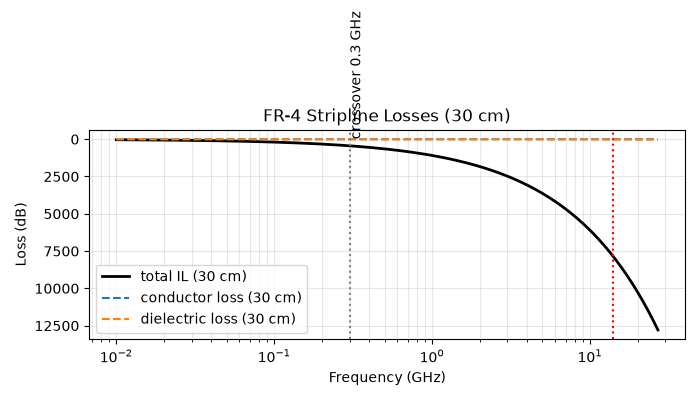
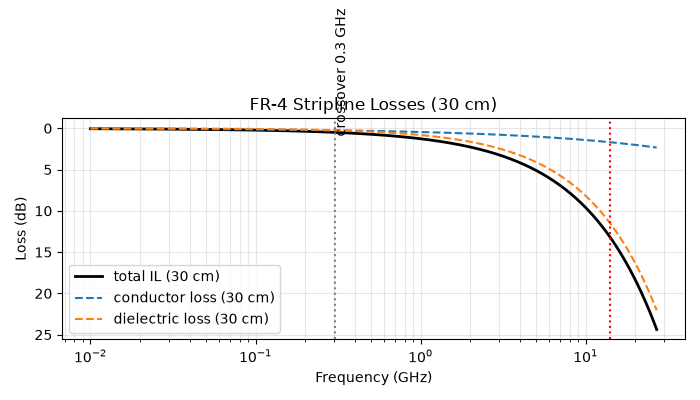
adding the python files

diff --git a/model/channel.py b/model/channel.py
@@ -2,10 +2,11 @@ from pathlib import Path
 import numpy as np
 
 
+
 def rlgc_gamma(f, R0, L, C, tand, f0=1e9):
     """Gamma = α + jβ for a lossy transmission line. Returns tuple of (α, β) in Np/m and rad/m"""
     w = 2 * np.pi * f
-    R = R0 * np.sqrt(f)          # skin effect ~ sqrt(f)
+    R = R0 * np.sqrt(f/f0)          # skin effect ~ sqrt(f)
     G = w * C * tand             # dielectric ~ f
     # gamma = np.sqrt((R + 1j*w*L) * (G + 1j*w*C))
     # return np.real(gamma), np.imag(gamma)
@@ -17,7 +18,7 @@ def insertion_loss_db(gamma, length):
     return 8.686 * alpha * length     # = -20*log10(exp(-alpha*length))
 def loss_components_db_per_m(f, R0, L, C, tand, f0=1e9):
     """Split total loss into conductor vs dielectric components. Returns tuple of (conductor, dielectric) in dB/m"""
-    Z0 = np.sqrt(L / C)
-    a_c = (R0*np.sqrt(f/f0)) / (2*Z0) 
-    a_d = (2*np.pi*f*C*tand) * Z0/2
-    return 8.686*a_c, 8.686*a_d
+    Z0 = np.sqrt(L/C)
+    a_c = (R0*np.sqrt(f/f0))/(2*Z0)      # Np/m
+    a_d = (2*np.pi*f*C*tand)*Z0/2        # Np/m
+    return 8.686 * a_c, 8.686 * a_d